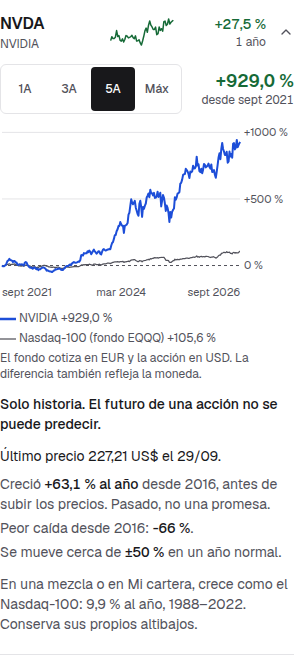
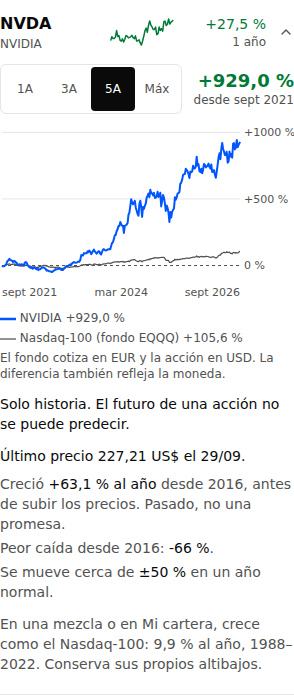
Screenshots: round 11 retaken with the seed-lab identity from master
Also the README's concentration example with the prices of 1 October.

Claude-Session: https://claude.ai/code/session_01BcV4Bj22BrAC8vej9vmEnb

diff --git a/projects/wealth-lens/README.md b/projects/wealth-lens/README.md
@@ -220,9 +220,9 @@ inflación) y las metas (una lista, vacía al empezar). `src/lib/calculator.ts` 
     su índice en su lugar, sobre los mismos años simulados, y el percentil
     10 y la mediana de cada una ("One stock is 40% of your mix: the middle
     result drops, the bad cases get much worse."; la frase sale de las
-    cifras: 60 % World + 40 % NVIDIA a 20 años con €1.000 y €200/mes da
-    €37.024 frente a €48.190 en los casos malos y €91.651 frente a €121.719
-    en el medio). Con crecimiento u oscilación propios no se muestra: los
+    cifras: 60 % World + 40 % NVIDIA a 20 años con €1.000 y €200/mes da,
+    con los precios del 1 de octubre de 2026, €37.012 frente a €48.190 en
+    los casos malos y €91.624 frente a €121.719 en el medio). Con crecimiento u oscilación propios no se muestra: los
     altibajos de la acción ya no se simulan. Ninguna optimización ni
     sugerencia de pesos.
   - **My portfolio** (`src/lib/portfolio.ts`): "Simple projection: each
